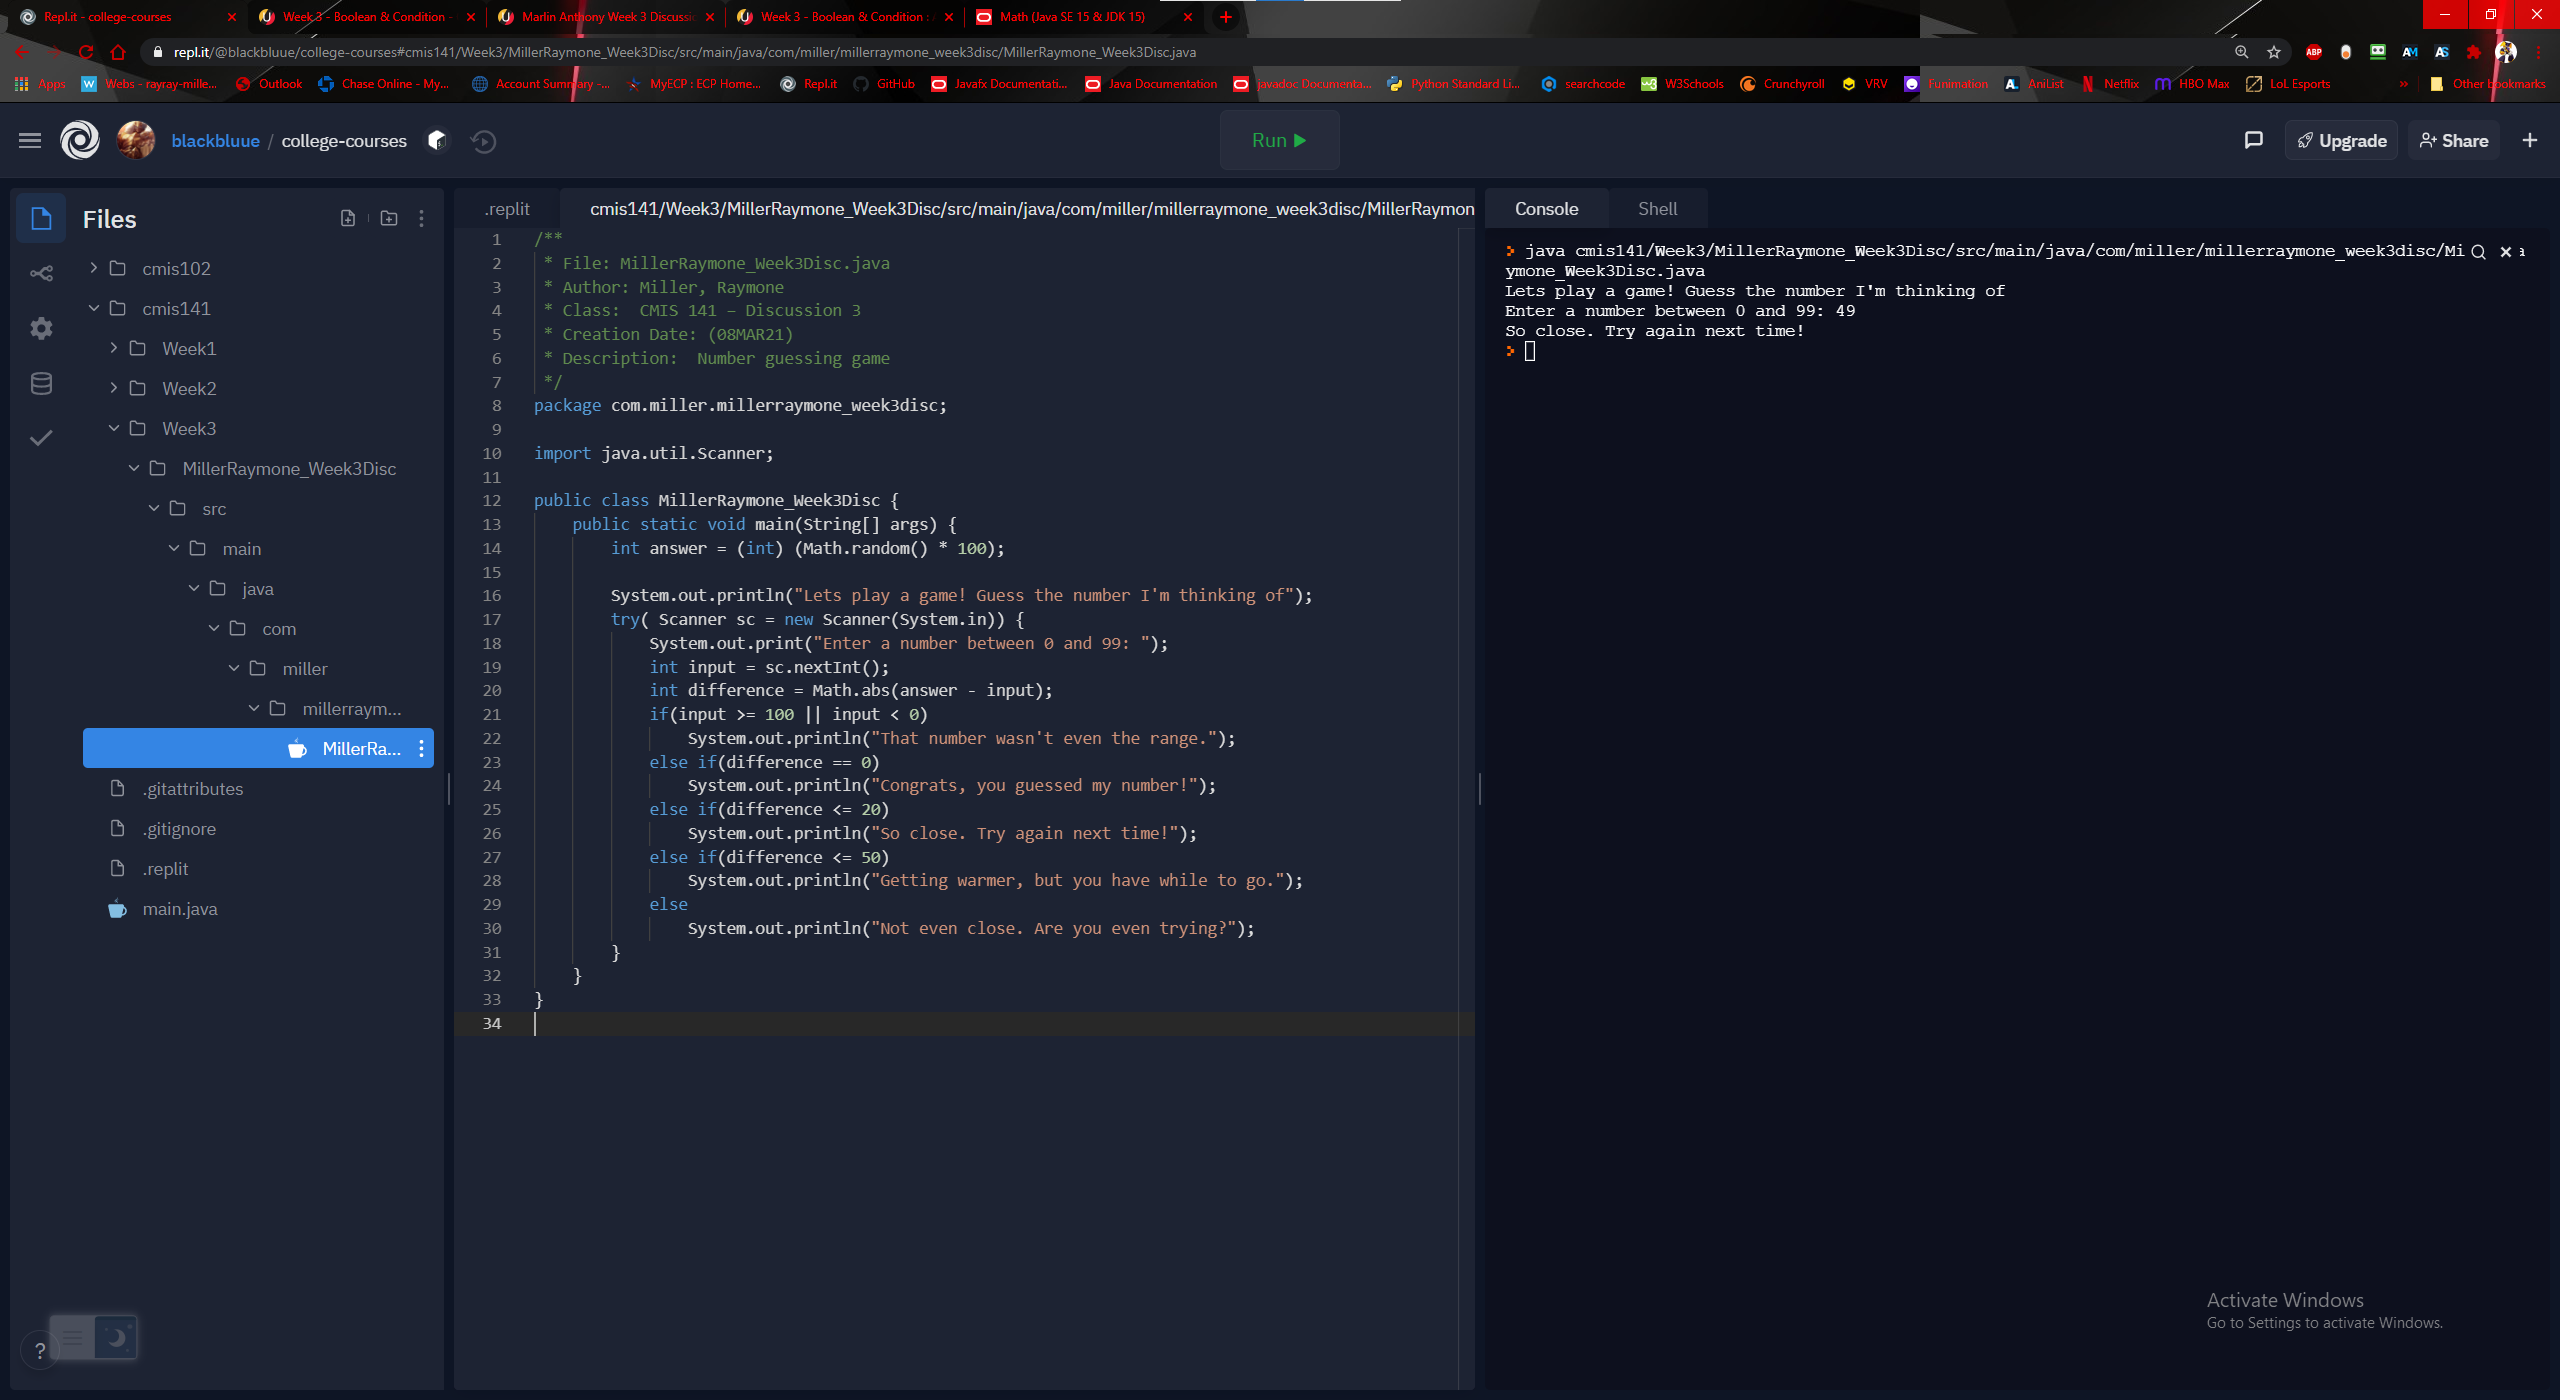
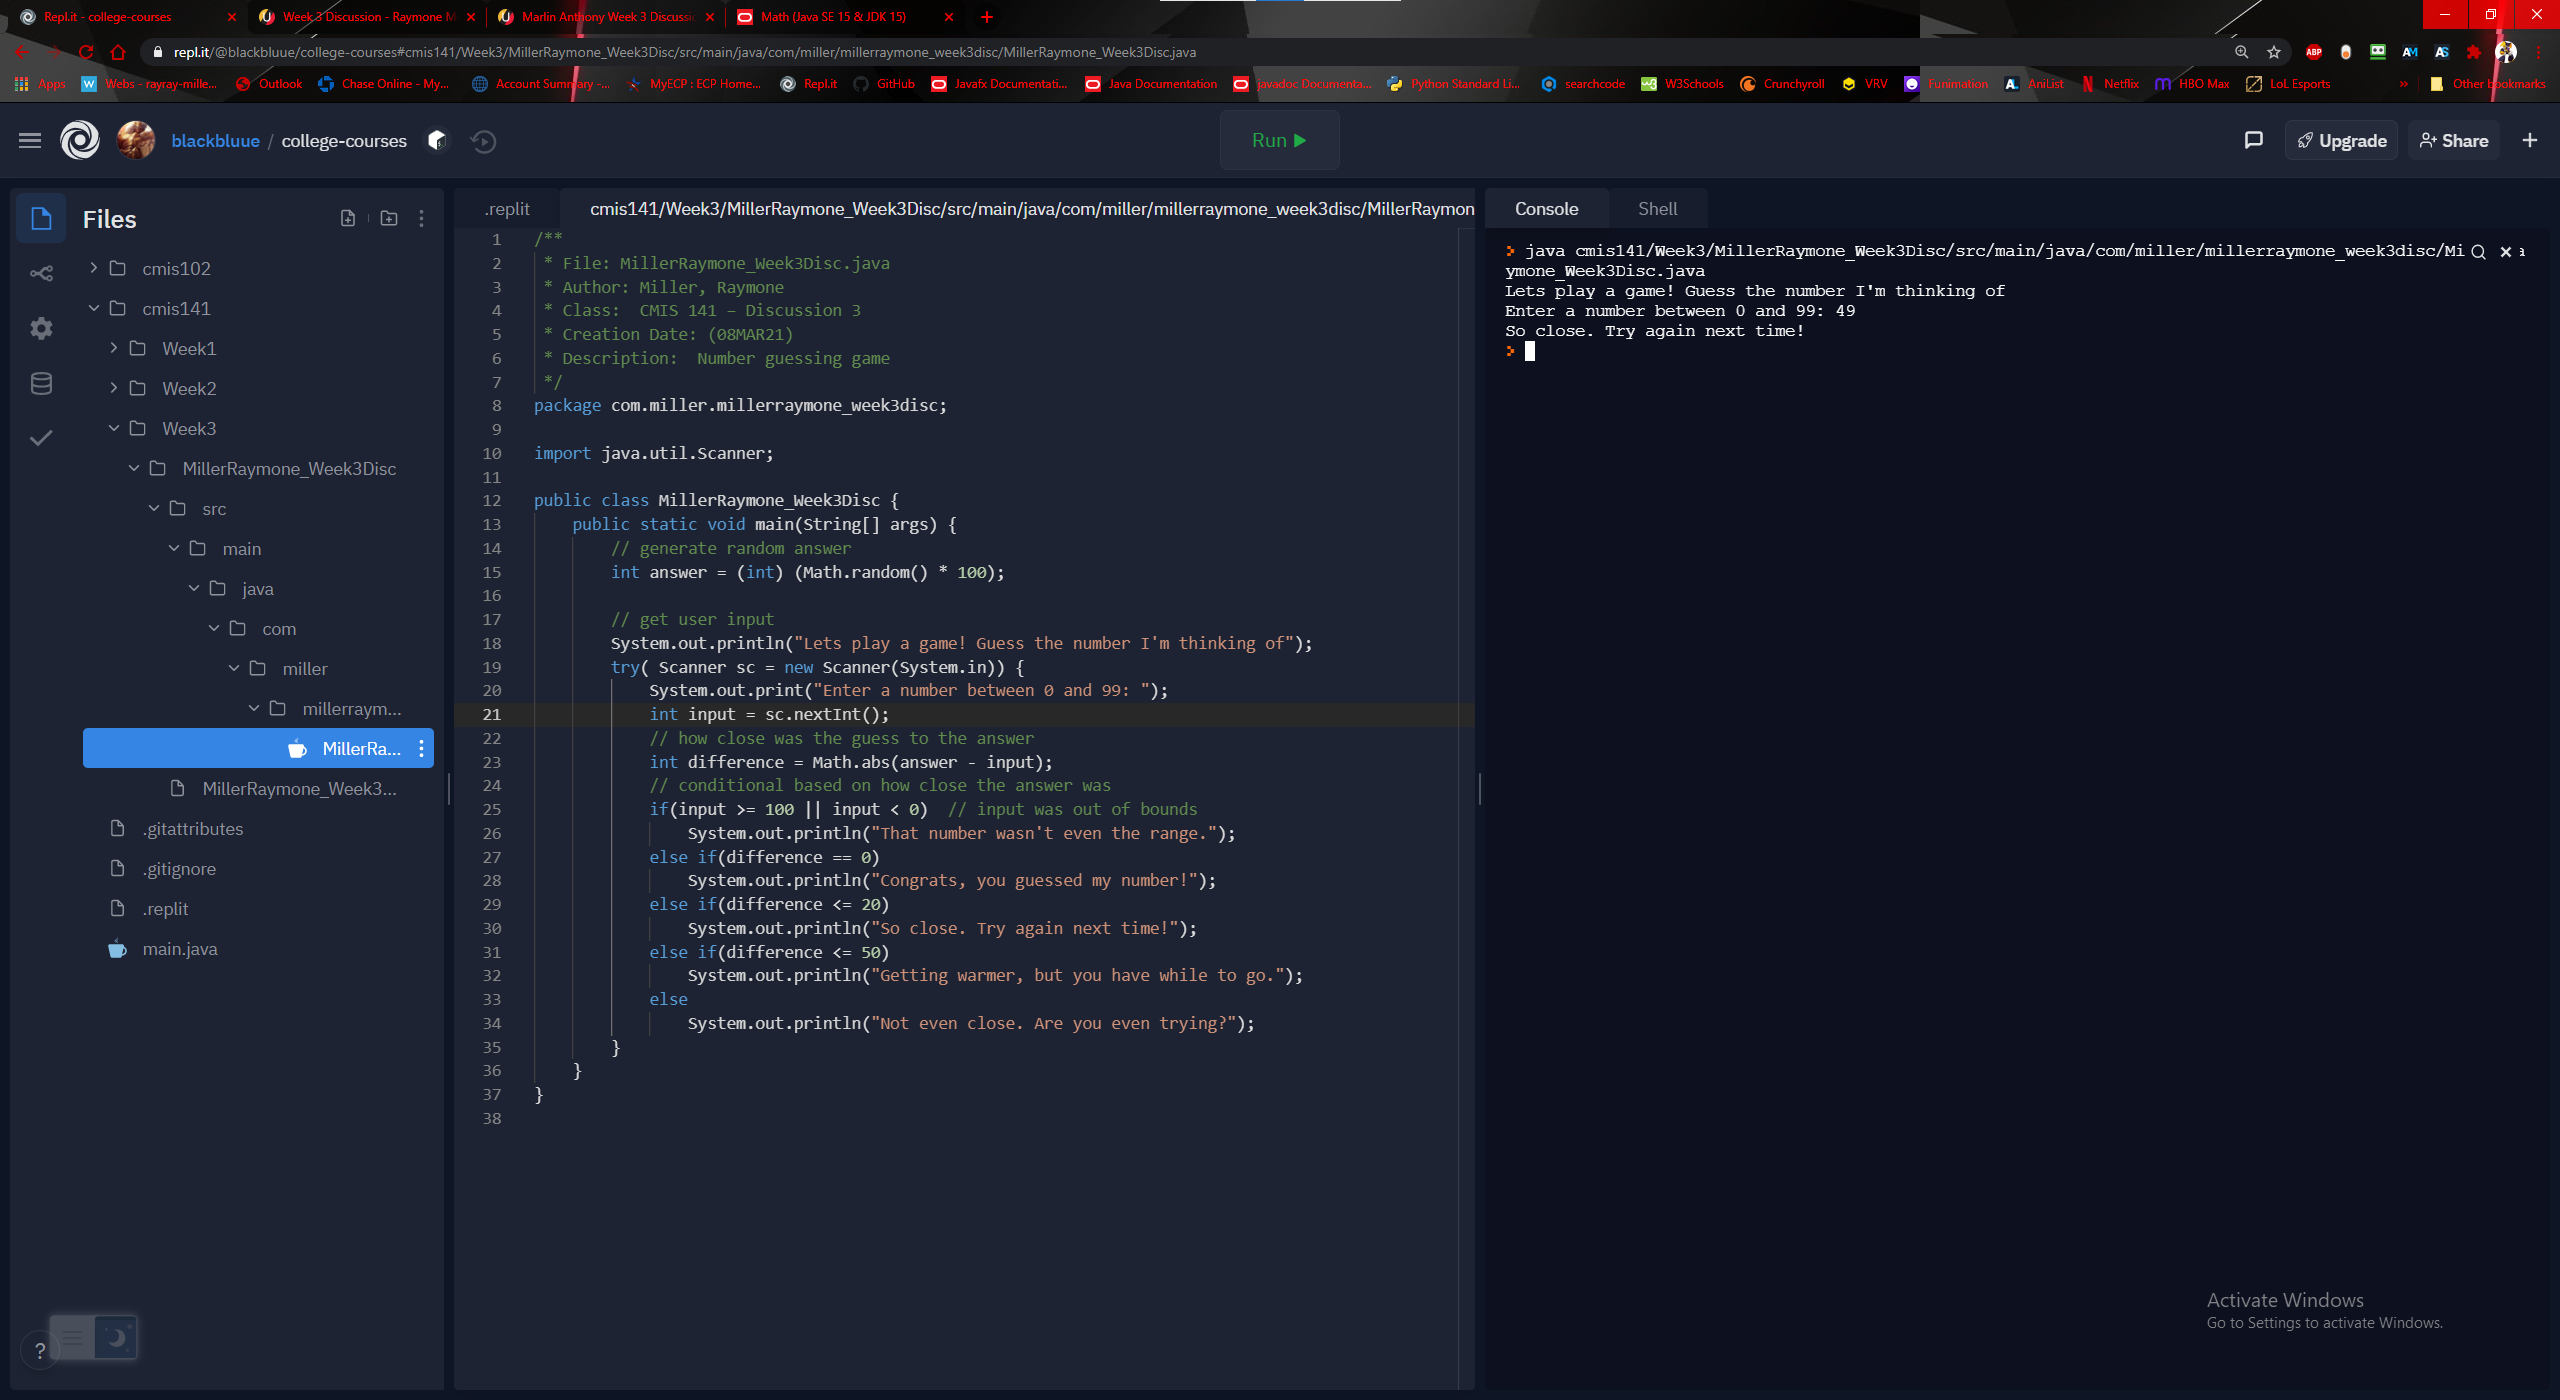
Reply to week 3 discussion

diff --git a/cmis141/Week3/MillerRaymone_Week3Disc/src/main/java/com/miller/millerraymone_week3disc/MarlinAnthony_Week3Discussion.java b/cmis141/Week3/MillerRaymone_Week3Disc/src/main/java/com/miller/millerraymone_week3disc/MarlinAnthony_Week3Discussion.java
@@ -1,0 +1,86 @@
+/** Marlin, Anthony
+ * CMIS 141 6980
+* 08 March 2021
+* Week 3 Discussion
+**/
+package com.miller.millerraymone_week3disc;
+
+import java.util.Scanner;
+
+public class MarlinAnthony_Week3Discussion {
+
+    public static void main(String[] args) {
+        Scanner scan = new Scanner(System.in); // import scanner
+
+	// Introdcution followed by questions to determine user personality via input.
+        System.out.print(
+                "This program will determine your personality type based on "
+                + "simple responses about yourself! Just hit enter, answer "
+                + "some questions by inputting the number associated with "
+                + "your response and enjoy the fun!\n\n");
+
+        System.out.println(
+                "If you're at a party, do you want to be (1)surrounded by "
+                + "friends, or do you (2) tend to stick to the outsides and "
+                + "just enjoy the music: ");
+        int ie = scan.nextInt();
+
+        System.out.println(
+                "\nAwesome! Now, do you (3) Go to work JUST to collect a "
+                + "paycheck; or do you (4)go because you believe your work "
+                + "has meaning and you enjoy it: ");
+        int ns = scan.nextInt();
+
+        System.out.println(
+                "\nGreat, halfway there! Now, do you tend to rely more on "
+                + "your (5) gut feeling, or (6) your logical mind when it "
+                + "comes to making decisions: ");
+        int tf = scan.nextInt();
+
+        System.out.println(
+                "\nFinally, would you say you're more of a (7) decision "
+                + "maker, or (8) an information seeker: ");
+  	int pj = scan.nextInt();
+
+  	// if else statements to determine output based on user input during questions
+
+        if(ie == 1)
+            System.out.print("You're extroverted, ");
+        else if(ie == 2)
+            System.out.print("You're introverted, ");
+        else
+            System.out.print("You don't follow rules, ");
+
+        if(ns == 3)
+            System.out.print("You're more of a sensory type personality, ");
+        else if(ns == 4)
+            System.out.print("You're more of an intuitive personality, ");
+        else
+            System.out.print("You're more of a rebel personality, ");
+
+        if(tf == 5)
+            System.out.print("You tend to rely and depend more on feelings, ");
+        else if(tf == 6)
+            System.out.print(
+                    "You tend to rely and depend more on your thoughts, ");
+        else
+            System.out.print("You tend to rely and depend more on chance, ");
+
+        if(pj == 7)
+            System.out.print(
+                    "and You can also be described as a person of judgement!");
+        else if(pj == 8)
+            System.out.print(
+                    "and You can also be described as a person of perception!");
+        else
+            System.out.print(
+                    "and You can also be described as a person of spontaneity!");
+
+        System.out.println();
+
+        System.out.print(
+                "Thanks for playing along all you introverts and extroverts!");
+
+        scan.close();
+    }
+} // end of program
